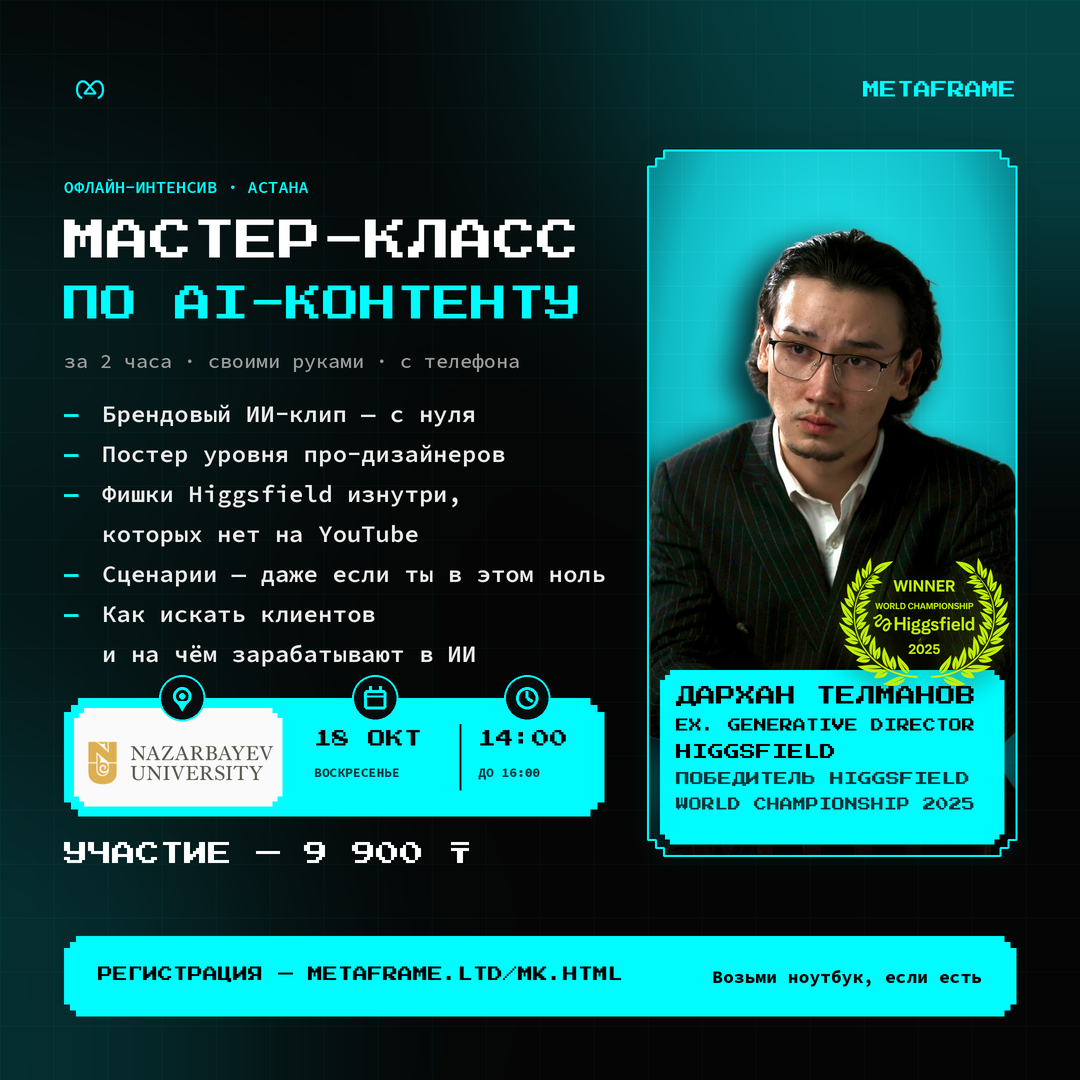
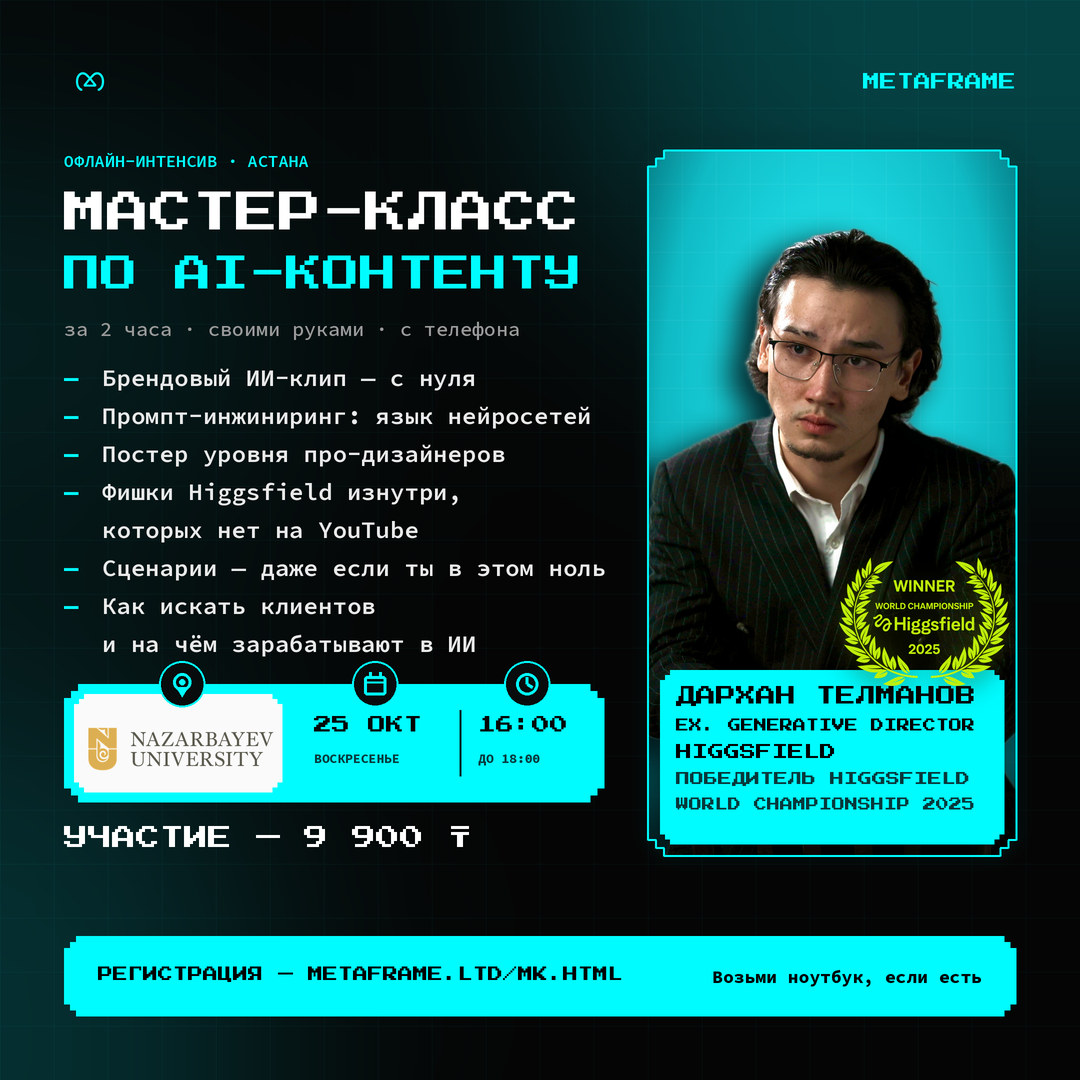
МК: новый поток 25 октября 16:00-18:00, постер с промпт-инжинирингом

diff --git a/mk.html b/mk.html
@@ -248,7 +248,7 @@ src="https://www.facebook.com/tr?id=1059782113326849&ev=PageView&noscript=1"
   <video class="bgvid" src="assets/aivideo-hero.mp4" autoplay muted loop playsinline></video>
   <p class="label">Астана · Nazarbayev University</p>
   <h1 class="px">Зарабатывай от <span class="accent">500&nbsp;000&nbsp;₸</span> в&nbsp;месяц, создавая AI-контент</h1>
-  <p class="when">18 октября, воскресенье · 14:00–16:00</p>
+  <p class="when">25 октября, воскресенье · 16:00–18:00</p>
   <a class="cta" href="#form" onclick="try{fbq('track','InitiateCheckout')}catch(e){}">Занять место</a>
   <p class="seats">Осталось <b>10 мест</b> · Участие — <b>9 900 ₸</b></p>
 </section>
